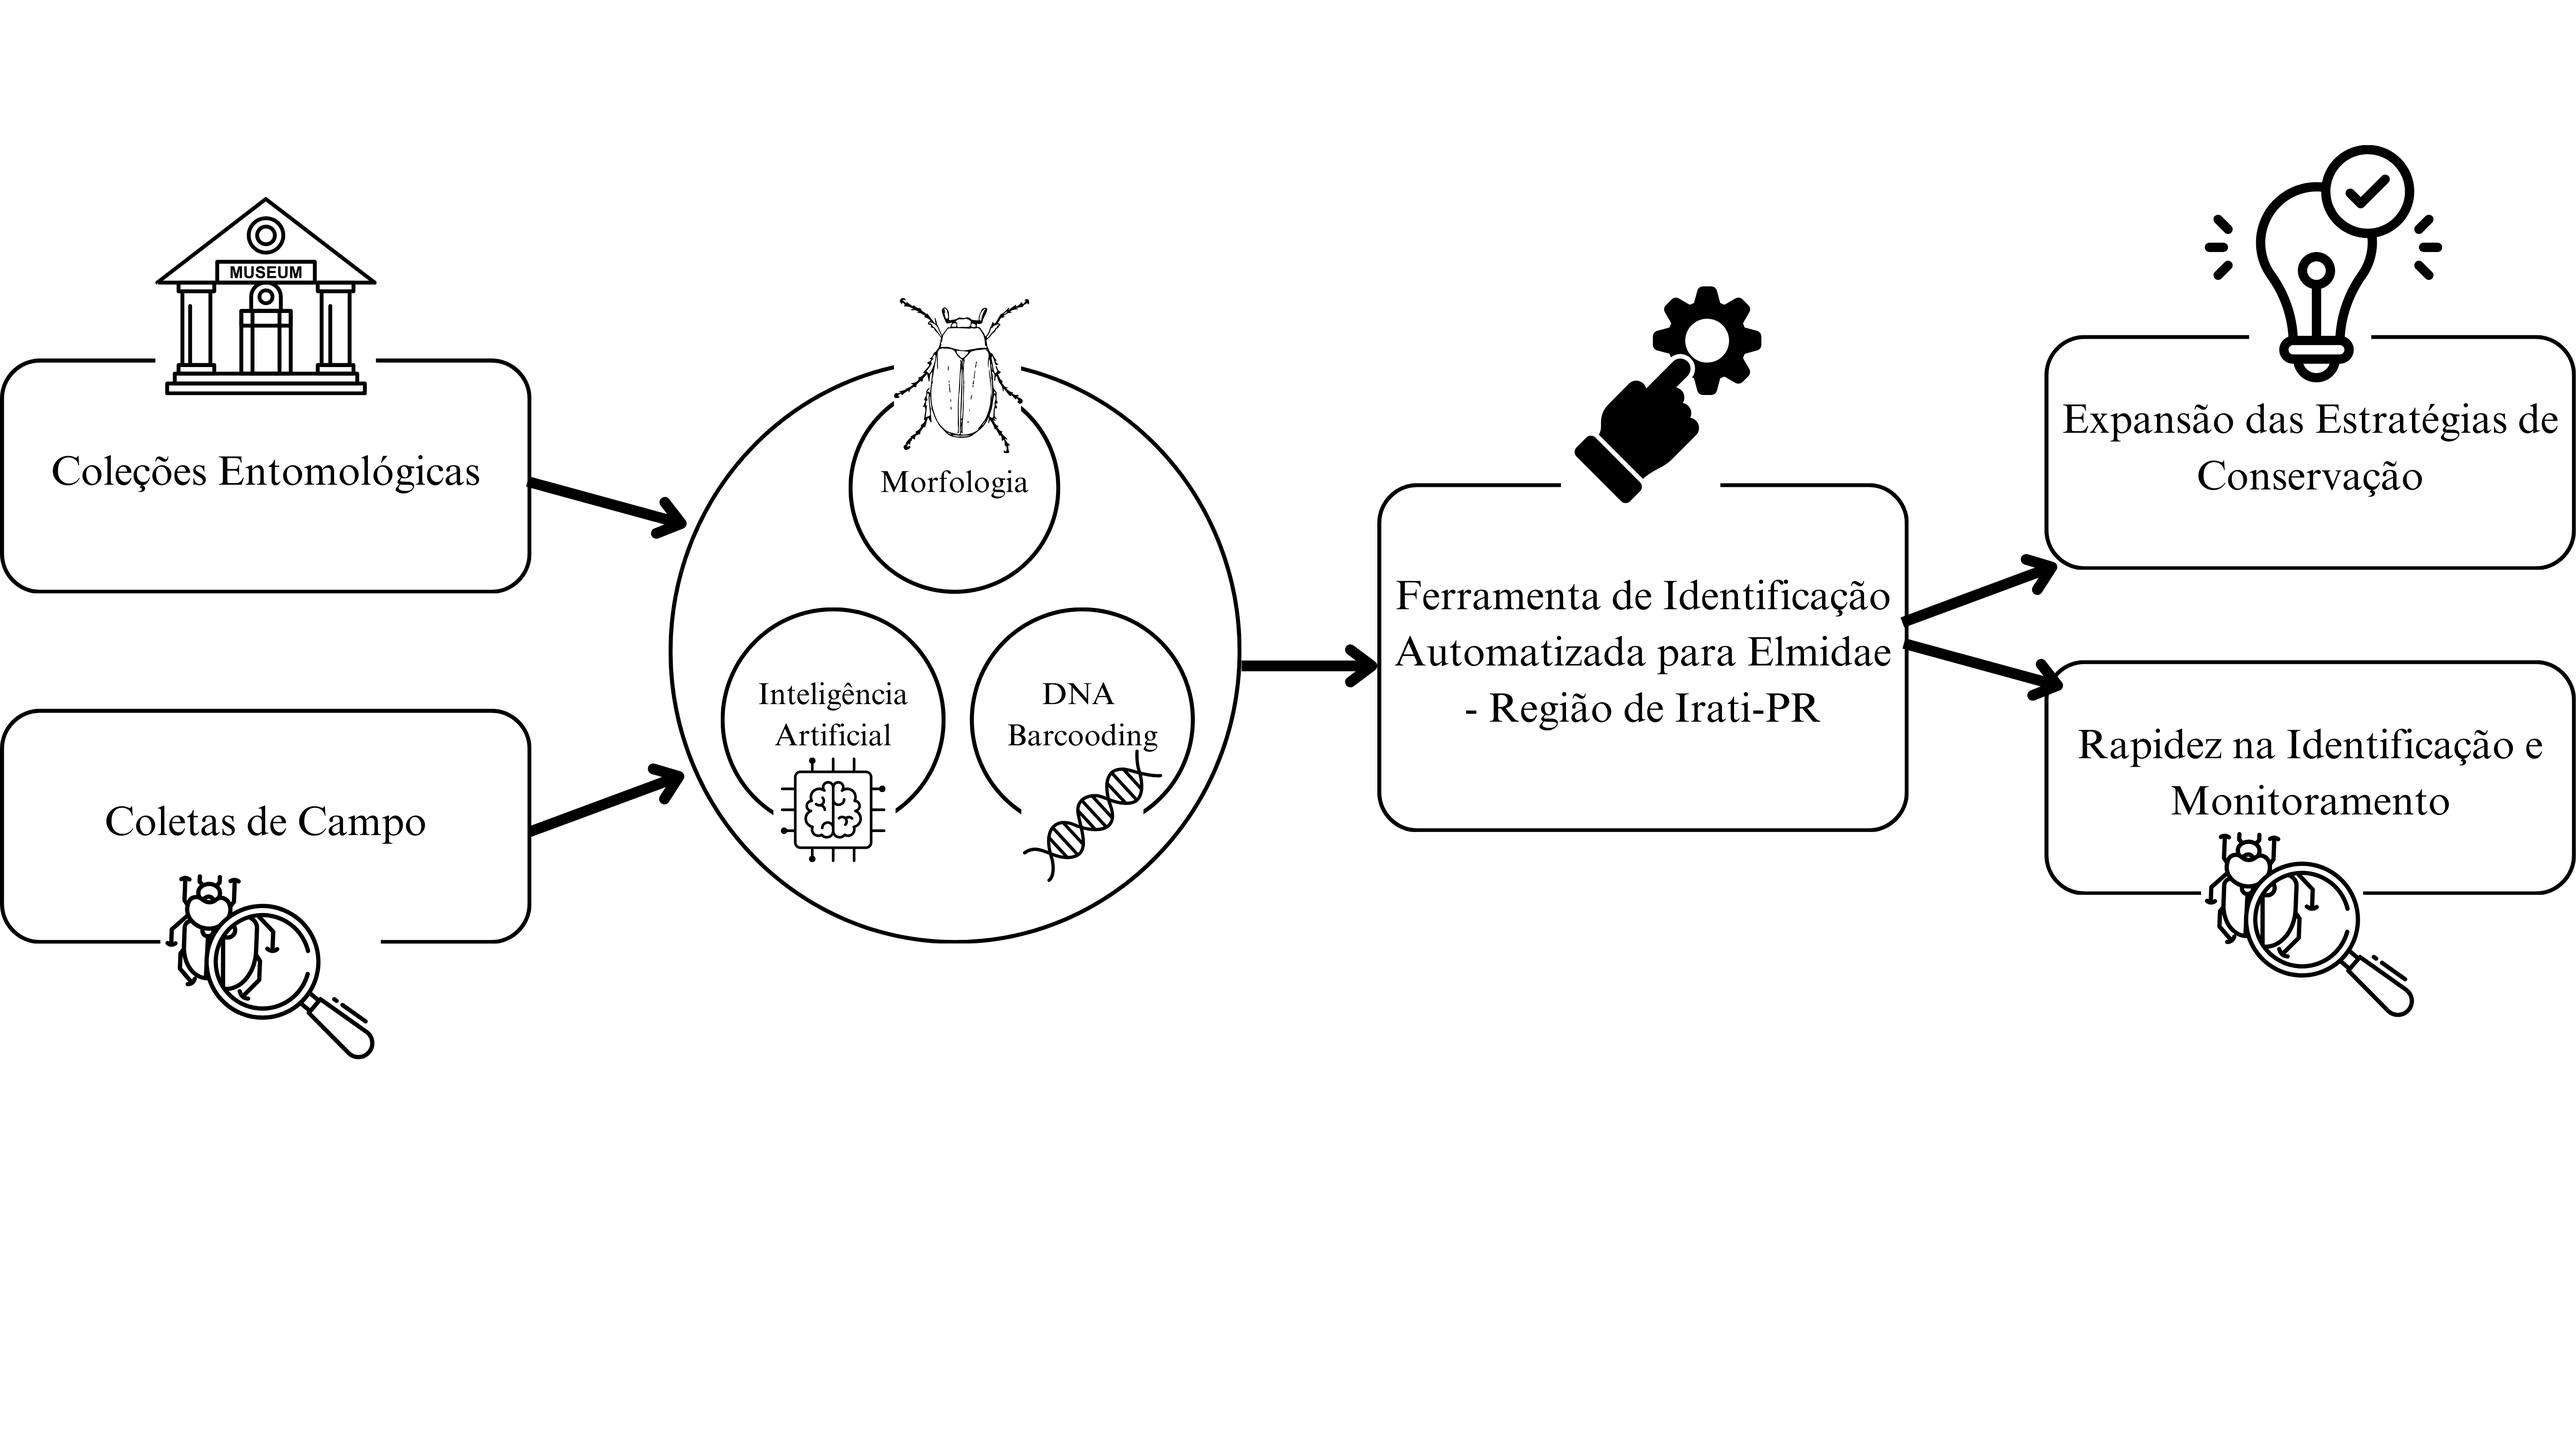
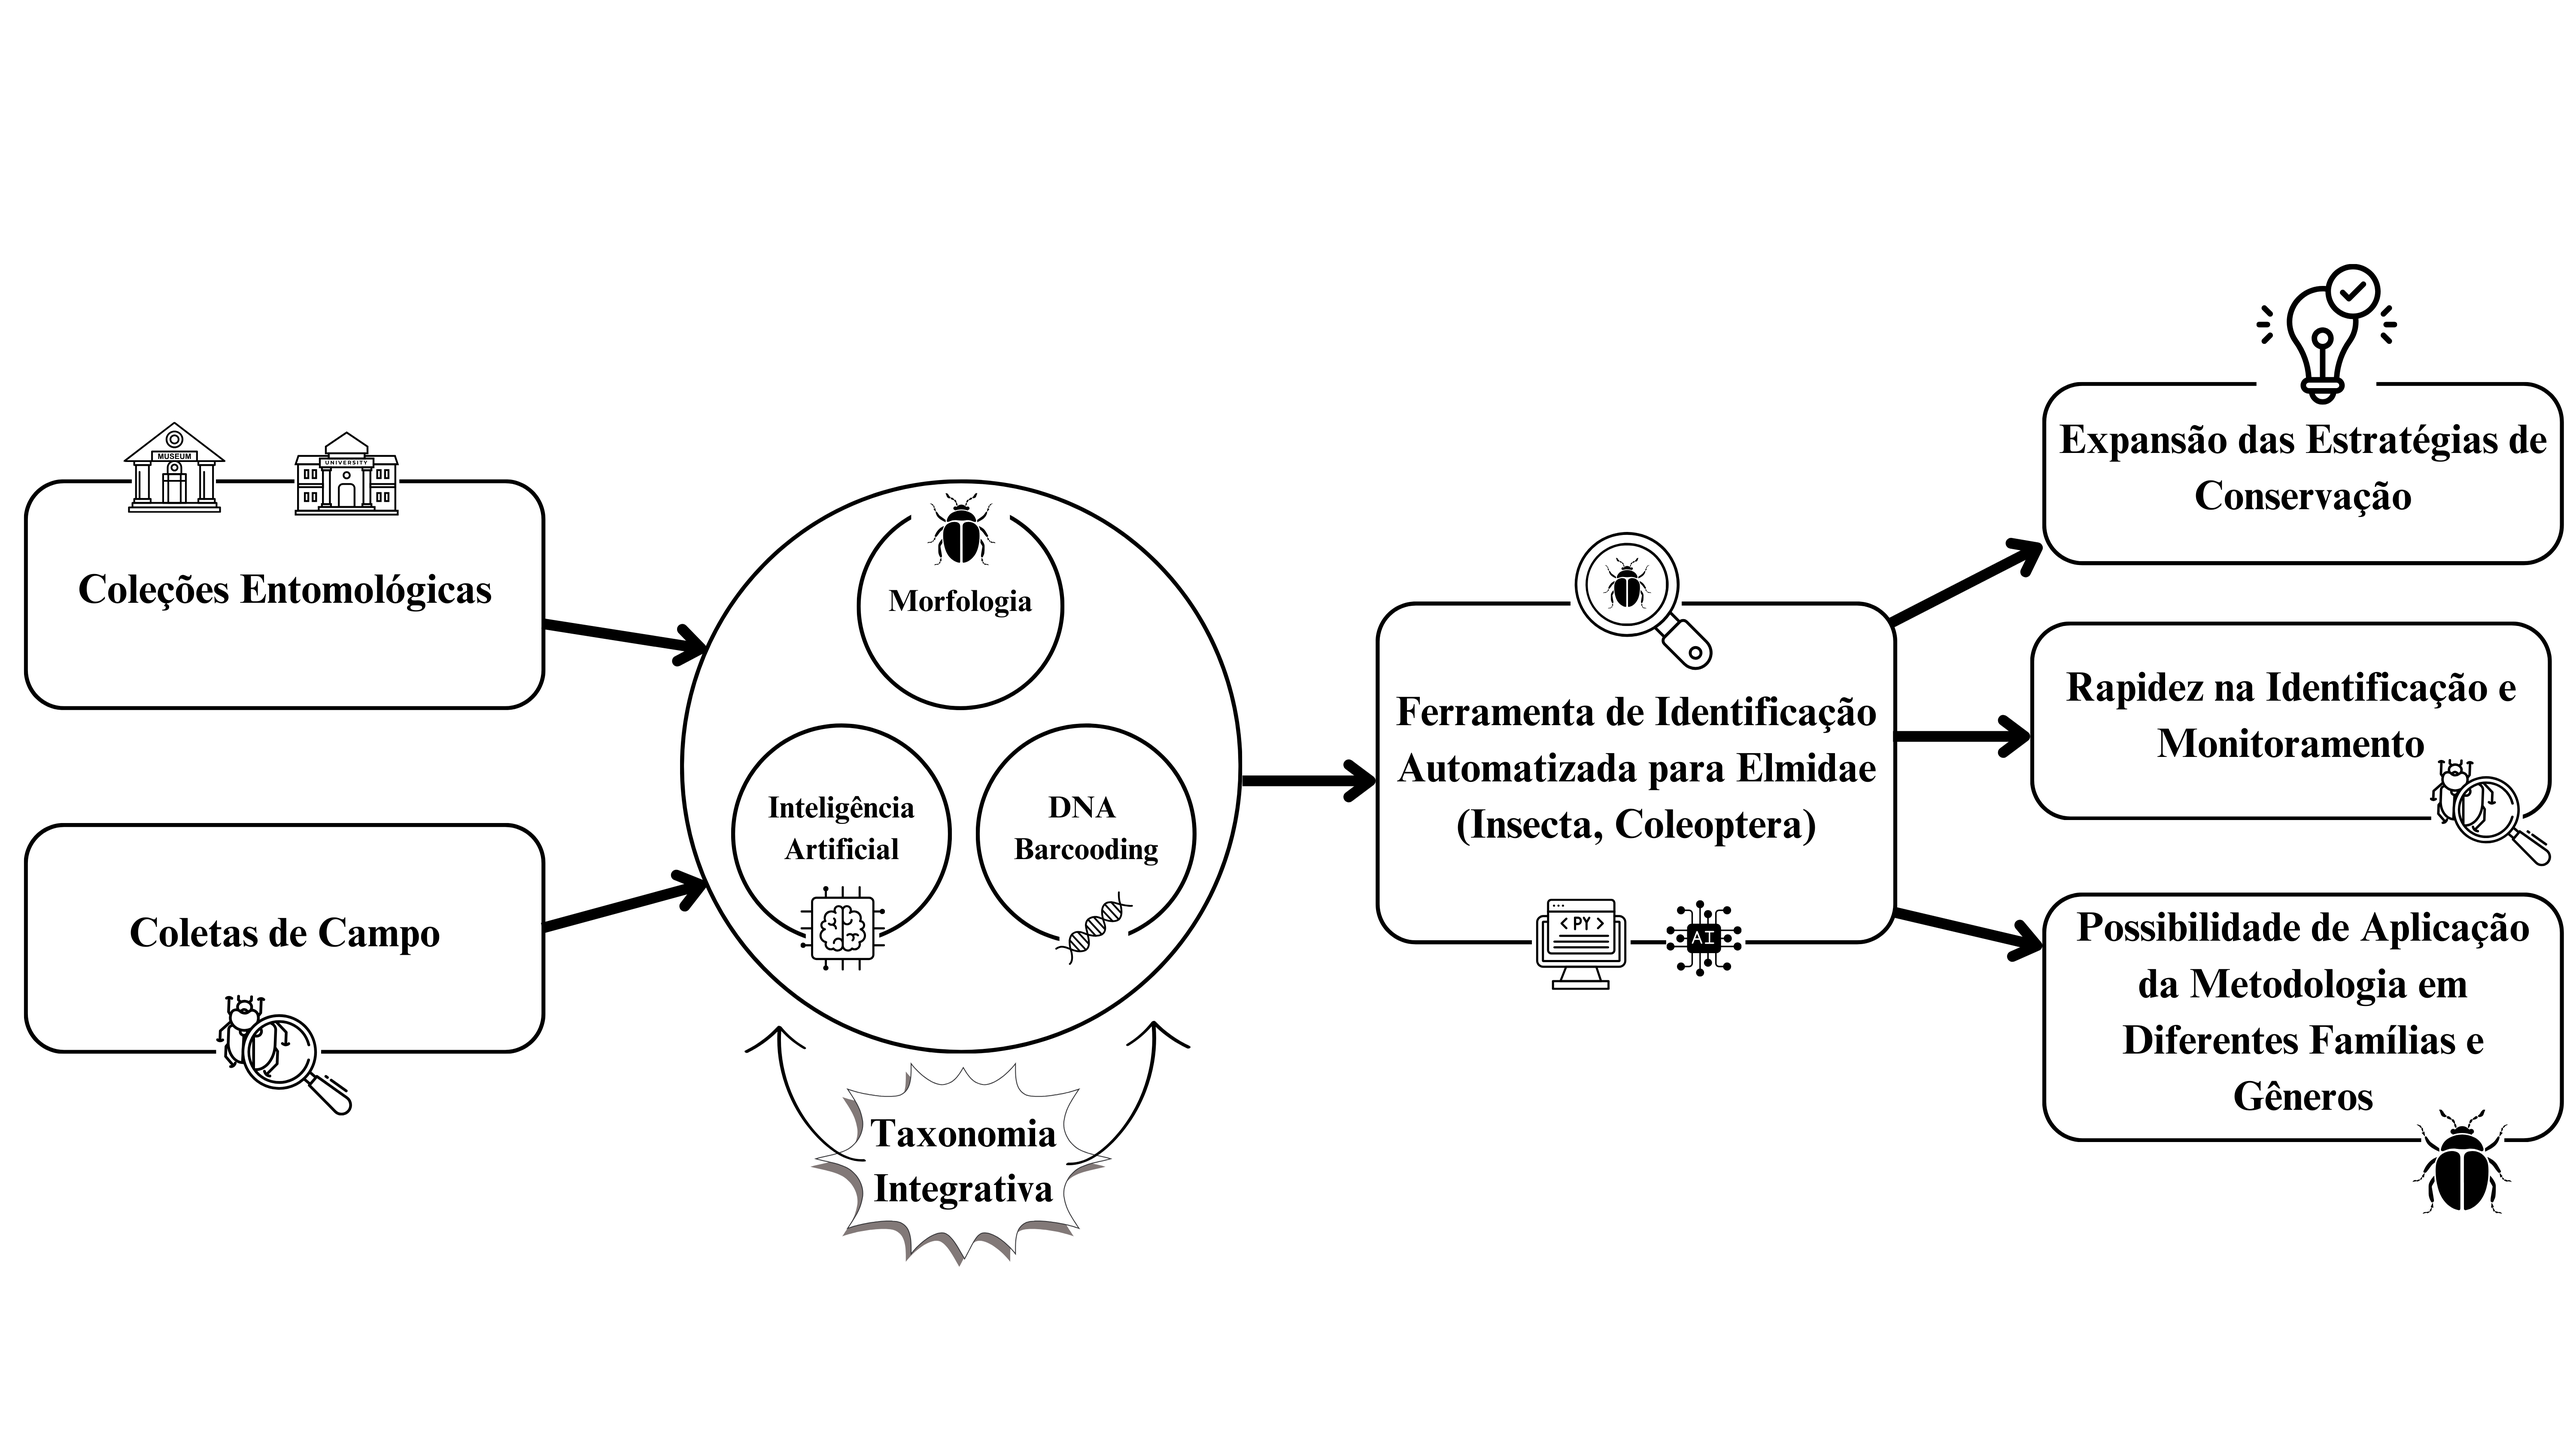
add correct data into contact page

diff --git a/src/app/contact/page.tsx b/src/app/contact/page.tsx
@@ -11,7 +11,7 @@ export default function Contact() {
         <div className="flex flex-col items-center justify-center">
           <Avatar className="h-24 w-24">
             <AvatarFallback>EM</AvatarFallback>
-            <AvatarImage src="https://github.com/leotheodoro.png" />
+            <AvatarImage src="" />
           </Avatar>
           <h3 className="font-semibold text-foreground">Eduardo Mallet</h3>
           <span className="text-sm text-muted-foreground">
@@ -19,64 +19,78 @@ export default function Contact() {
           </span>
           <div>
             <Button size={'icon'} variant={'ghost'}>
-              <LinkedinIcon />
+              <a
+                href="https://www.linkedin.com/in/eduardo-mallet-114567212"
+                target="_blank"
+              >
+                <LinkedinIcon />
+              </a>
             </Button>
             <Button size={'icon'} variant={'ghost'}>
-              <Mail />
+              <a href="mailto:eng_mallet@outlook.com">
+                <Mail />
+              </a>
             </Button>
           </div>
         </div>
         <div className="flex flex-col items-center justify-center">
           <Avatar className="h-24 w-24">
-            <AvatarFallback>EM</AvatarFallback>
-            <AvatarImage src="https://github.com/leotheodoro.png" />
+            <AvatarFallback>EA</AvatarFallback>
+            <AvatarImage src="" />
           </Avatar>
-          <h3 className="font-semibold text-foreground">Eduardo Mallet</h3>
+          <h3 className="font-semibold text-foreground">
+            Elynton Alves do Nascimento
+          </h3>
           <span className="text-sm text-muted-foreground">
             Engenheiro Ambiental
           </span>
           <div>
             <Button size={'icon'} variant={'ghost'}>
-              <LinkedinIcon />
-            </Button>
-            <Button size={'icon'} variant={'ghost'}>
-              <Mail />
+              <a href="mailto:elynton@gmail.com">
+                <Mail />
+              </a>
             </Button>
           </div>
         </div>
         <div className="flex flex-col items-center justify-center">
           <Avatar className="h-24 w-24">
-            <AvatarFallback>EM</AvatarFallback>
-            <AvatarImage src="https://github.com/leotheodoro.png" />
+            <AvatarFallback>VF</AvatarFallback>
+            <AvatarImage src="/assets/contact/vinicius_ferreira.png" />
           </Avatar>
-          <h3 className="font-semibold text-foreground">Eduardo Mallet</h3>
+          <h3 className="font-semibold text-foreground">
+            Vinicius Ferreira de Souza
+          </h3>
           <span className="text-sm text-muted-foreground">
             Engenheiro Ambiental
           </span>
           <div>
             <Button size={'icon'} variant={'ghost'}>
-              <LinkedinIcon />
+              <a href="https://cantharoid.com/" target="_blank">
+                <Link />
+              </a>
             </Button>
             <Button size={'icon'} variant={'ghost'}>
-              <Mail />
+              <a href="mailto:vinicius.ferreira@senckenberg.de">
+                <Mail />
+              </a>
             </Button>
           </div>
         </div>
         <div className="flex flex-col items-center justify-center">
           <Avatar className="h-24 w-24">
-            <AvatarFallback>EM</AvatarFallback>
+            <AvatarFallback>LT</AvatarFallback>
             <AvatarImage src="https://github.com/leotheodoro.png" />
           </Avatar>
-          <h3 className="font-semibold text-foreground">Eduardo Mallet</h3>
-          <span className="text-sm text-muted-foreground">
-            Engenheiro Ambiental
-          </span>
+          <h3 className="font-semibold text-foreground">Leonardo Theodoro</h3>
+          <span className="text-sm text-muted-foreground">Desenvolvedor</span>
           <div>
             <Button size={'icon'} variant={'ghost'}>
-              <LinkedinIcon />
-            </Button>
-            <Button size={'icon'} variant={'ghost'}>
-              <Mail />
+              <a
+                href="https://www.linkedin.com/in/leonardo-theodoro/"
+                target="_blank"
+              >
+                <LinkedinIcon />
+              </a>
             </Button>
           </div>
         </div>
